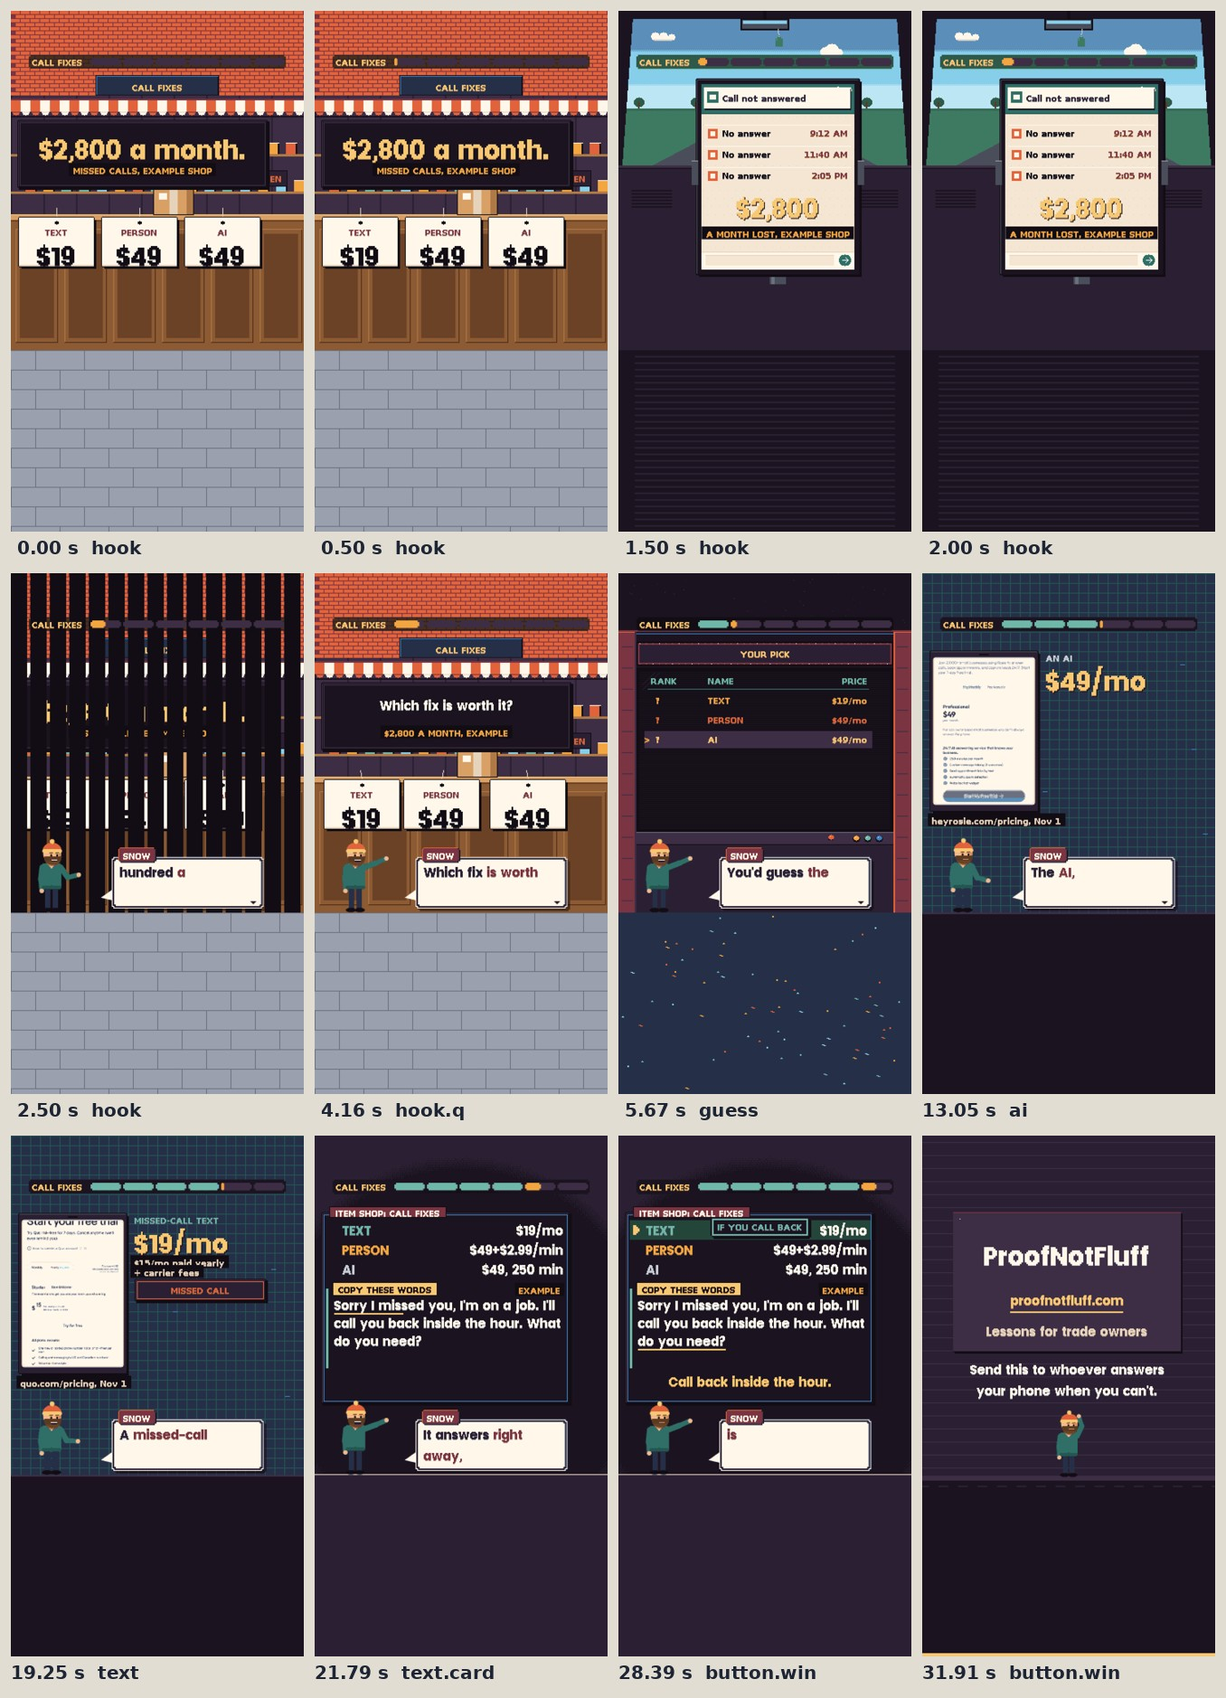
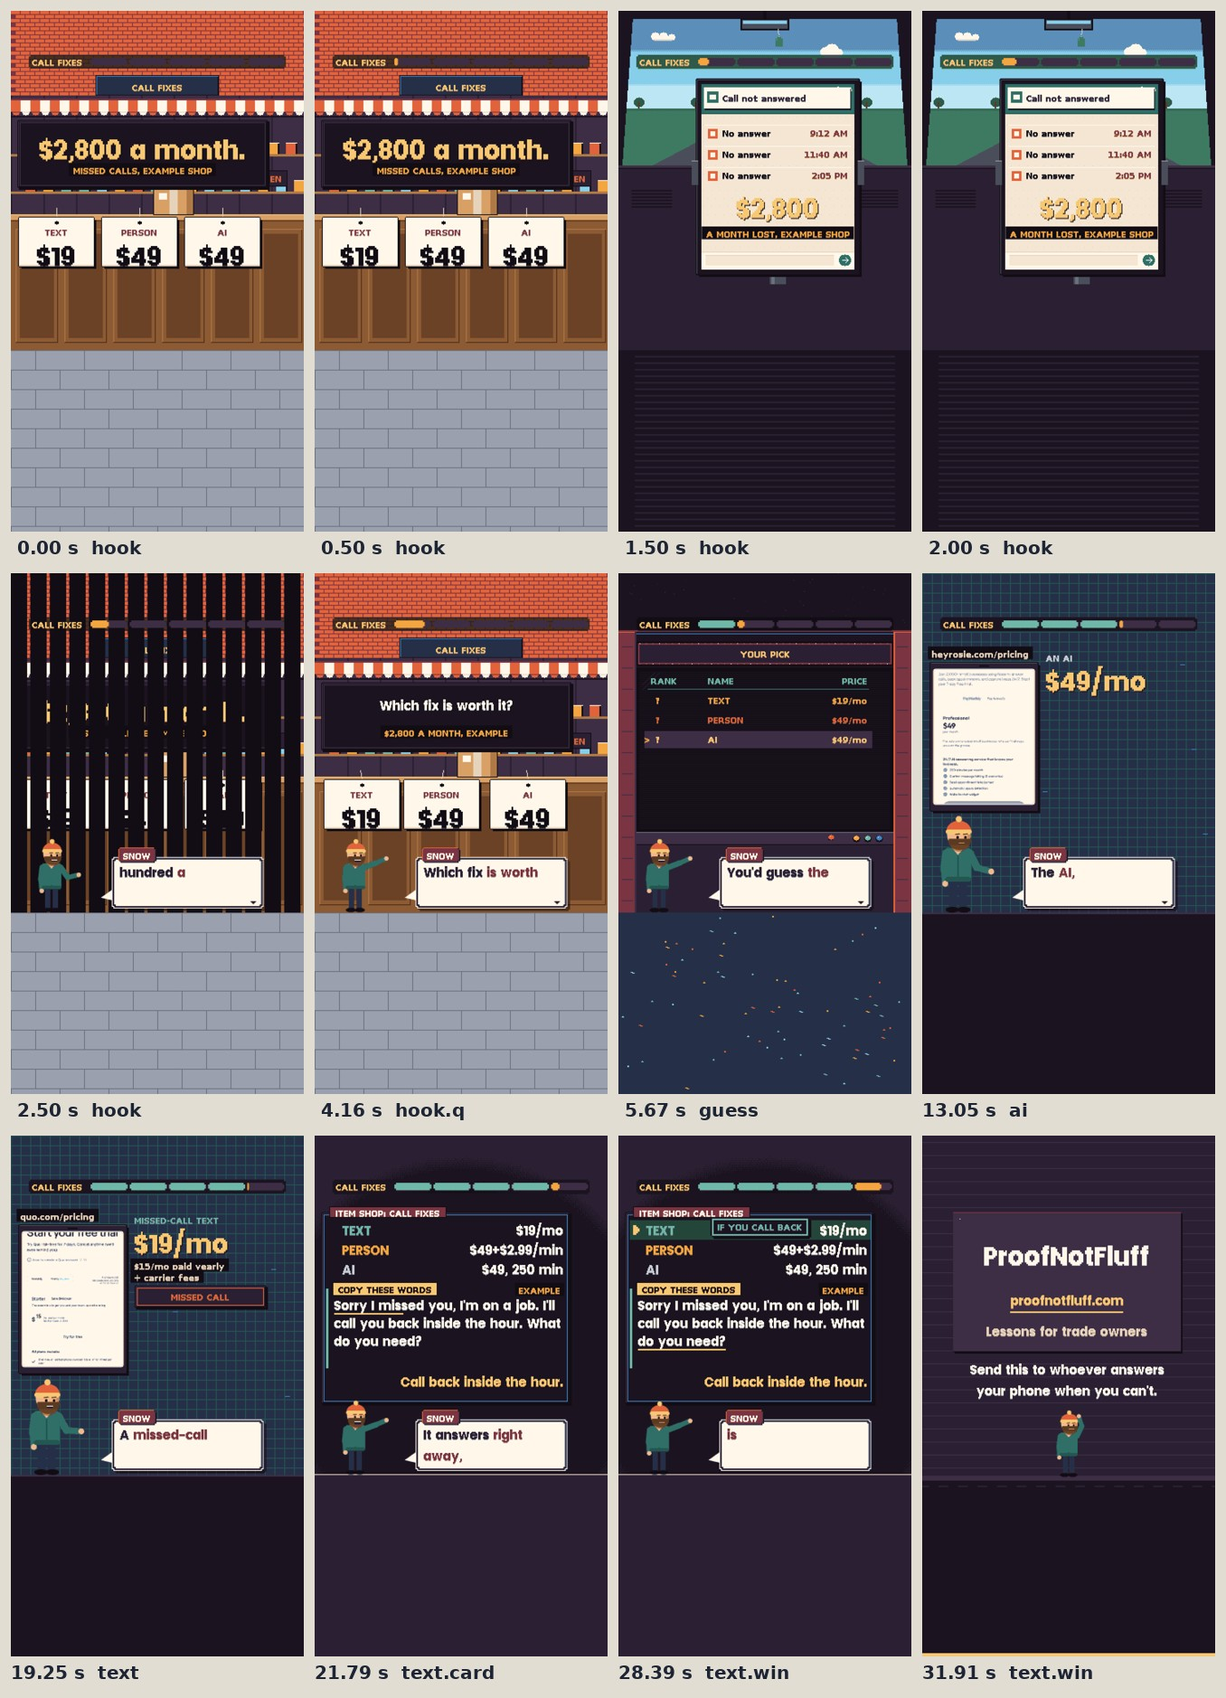
studio: three-fixes r2 build, every gate PASS (facts 14 numbers 0 mismatches, facts-captions, render critic 0 faults, buyer, design 4.86 on the 4.50 bar after two FAILs, golden post as is); learnings
Claude-Session: https://claude.ai/code/session_01XMn4eLZ2Yvg9MwMkfHFw6Y

diff --git a/video/studio/videos/2026-11-15-three-fixes/04_scene/scene.js b/video/studio/videos/2026-11-15-three-fixes/04_scene/scene.js
@@ -50,7 +50,7 @@ const wordT = (k, id, re, dflt = 0) => {
   return w ? w.start : t0 + dflt;
 };
 const bob2 = (T, t0) => (T - t0 < 0.3 ? 0 : [0, 6, 0, -6][Math.floor((T - t0 - 0.3) / 0.15) % 4]);
-const host = (k, pose) => ({hostPose: pose || (k.talking() ? 'talk' : 'stand'), hostScale: 0.55, hostX: 150});
+const host = (k, pose, big) => ({hostPose: pose || (k.talking() ? 'talk' : 'stand'), hostScale: big ? 0.72 : 0.55, hostX: big ? 132 : 150});
 const plate = (d, x, y, w, h) => d.win(x, y, w, h, {base: '#1B1420', hi: '#3D2E45', lo: INK, rule: '#3D2E45'});
 /* a rubber stamp in a dark box with a coloured rim, landed with the kit's hit-stop */
 const stampBox = (k, s, cx, y, t0, o = {}) => {
@@ -106,9 +106,9 @@ const desk = (k) => {
 /* the page shot in a phone frame (left) with its address under it */
 const pagePhone = (k, d, name, addr, scroll, t0) => {
   const sl = d.ease(t0, 6, -40);
-  const s = bigPhone(k, d, 10 + sl, 96, 132, 196, {screen: '#FFFFFF'});
+  const s = bigPhone(k, d, 10 + sl, 110, 132, 182, {screen: '#FFFFFF'});
   k.page(s.x * 3, s.y * 3, s.w * 3, s.h * 3, name, {scroll});
-  tag(k, addr, (12 + sl) * 3, 298 * 3, {color: SAND});
+  tag(k, addr, (12 + sl) * 3, 93 * 3, {color: SAND});
   return s;
 };
 /* the right-hand column (x 150 to 314): each line slides in on its own word */
@@ -153,8 +153,8 @@ window.SCENE = {
   host_name: 'Snow',
   hud: 'CALL FIXES',
   sendLine: "Send this to whoever answers your phone when you can't.",
-  transitions: {guess: 'dissolve', person: 'levelselect', ai: 'dissolve', text: 'dissolve'},
-  trauma: {'button.win': 0.5},
+  transitions: {guess: 'dissolve', person: 'levelselect', ai: 'dissolve', text: 'dissolve'},   /* the card stays from text.card to the end: one section, no wipe */
+  trauma: {'text.win': 0.5},
   sections: {
     /* ---- hook: three shots. Cover (frame 0, no host): the counter (the metaphor), three tags, the plate $2,800 a  */
     /* month (EXAMPLE). By 0.8 s blinds open on the dash phone: missed-call rows drop in, $2,800 slams in (EXAMPLE).   */
@@ -197,6 +197,7 @@ window.SCENE = {
       const n = k.data.numbers, t0 = k.S('guess'), tA = wordT(k, 'guess', /^AI/i, 0.8), tB = wordT(k, 'guess', /^books/i, 1.4);
       mute(k, (x) => String(x) === 'SCORE', () => k.sets.scores({title: 'YOUR PICK', t0: t0 - 0.3, gap: 0.2, count: 0.5, rows: [{name: 'TEXT', value: n.text.value, prefix: '$', suffix: '/mo', rank: '?'}, {name: 'PERSON', value: n.person.value, prefix: '$', suffix: '/mo', rank: '?'}, {name: 'AI', value: n.ai.value, prefix: '$', suffix: '/mo', rank: '?', hi: tA - 0.25 <= T}]}));
       k.text('PRICE', 306 * 3, 126 * 3, {size: 39, color: TEAL, align: 'right'});
+      if (T < tB - 0.25 && Math.floor(T * 2) % 2 === 0) k.text('INSERT COIN', CX, 240 * 3, {size: 66, color: SAND, align: 'center'});
       if (T >= tB - 0.25) k.slam('IT BOOKS?', CX, 236 * 3, tB - 0.25, {size: 132, color: Math.floor((T - tB) * 4) % 2 ? RED : GOLD, align: 'center', from: 0.5, drop: INK, glint: false});
       return host(k, 'point');
     },
@@ -204,9 +205,9 @@ window.SCENE = {
     /* ---- person: PATLive's own page in the phone, its address; "$49/mo" and "+ $2.99/min" land on the words; a     */
     /* meter rolls 0 to 100 minutes and the bill to $348 (EXAMPLE, 100 minutes).                                        */
     person: (k, T) => {
-      const n = k.data.numbers, t0 = k.S('person'), tF = wordT(k, 'person', /^forty/i, 0.6), tP = wordT(k, 'person', /^plus/i, 1.6), tMin = wordT(k, 'person', /^minute/i, 3.2);
+      const n = k.data.numbers, t0 = k.S('person'), tF = wordT(k, 'person', /^forty/i, 0.6), tP = wordT(k, 'person', /^plus/i, 1.6), tMin = wordT(k, 'person', /^ninety/i, 2.8) - 0.2;
       const d = desk(k);
-      pagePhone(k, d, 'patlive', 'patlive.com/pricing, Nov 1', 0, t0);
+      pagePhone(k, d, 'patlive', 'patlive.com/pricing', 0, t0);
       k.text('A PERSON', RX * 3, 98 * 3, {size: 39, color: ORANGE});
       priceLines(k, d, [{s: `${n.person.shown}/mo`, y: 112, at: Math.min(tF, t0 + 0.35), size: 99, c: GOLD}, {s: `+${n.permin.shown}/min`, y: 152, at: tP}]);
       if (T >= tMin - 0.1) {
@@ -216,7 +217,7 @@ window.SCENE = {
         k.text(p >= 1 ? `${n.ptotal.shown}/mo` : `$${bill.toFixed(0)}`, (RX + 78) * 3, 222 * 3, {size: 99, color: p >= 1 ? RED : GOLD, align: 'center'});
         tag(k, 'EXAMPLE USE', (RX + 78) * 3, 280 * 3, {align: 'center', color: ORANGE});
       }
-      return host(k, T >= tP ? 'lean' : null);
+      return host(k, T >= tP ? 'lean' : null, true);
     },
 
     /* ---- ai: Rosie's own page in the phone with its address; "$49/mo" and "250 min" land; on "only" SENDS A LINK   */
@@ -224,7 +225,7 @@ window.SCENE = {
     ai: (k, T) => {
       const n = k.data.numbers, t0 = k.S('ai'), tF = wordT(k, 'ai', /^forty/i, 0.5), tM = wordT(k, 'ai', /^hundred|^two/i, 1.6), tO = wordT(k, 'ai', /^only/i, 3.6);
       const d = desk(k);
-      pagePhone(k, d, 'rosie', 'heyrosie.com/pricing, Nov 1', 230, t0);
+      pagePhone(k, d, 'rosie', 'heyrosie.com/pricing', 230, t0);
       k.text('AN AI', RX * 3, 98 * 3, {size: 39, color: '#C9A7F0'});
       priceLines(k, d, [{s: `${n.ai.shown}/mo`, y: 112, at: Math.min(tF, t0 + 0.35), size: 99, c: GOLD}, {s: `${n.aimin.shown} min`, y: 152, at: tM}]);
       if (T >= tO - 0.25) {
@@ -232,39 +233,35 @@ window.SCENE = {
         tag(k, 'This plan. Booking', (RX + 80) * 3, 236 * 3, {align: 'center'});
         tag(k, `is on its ${n.aibook.shown} plan.`, (RX + 80) * 3, 254 * 3, {align: 'center'});
       }
-      return host(k, T >= tO ? 'shrug' : null);
+      return host(k, T >= tO ? 'shrug' : null, true);
     },
 
     /* ---- text: Quo's own page in the phone (its yearly view) with its address; "$19/mo" lands, "$15 paid yearly"   */
     /* under it; a missed call buzzes and our example auto-reply pops back. On "It answers" the ITEM SHOP card.         */
     text: (k, T) => {
       const n = k.data.numbers, t0 = k.S('text'), tN = wordT(k, 'text', /^nineteen/i, 1.2), tCard = k.S('text.card');
-      if (T >= tCard - 0.25) { shopCard(k, tCard - 0.25); blinds(k, tCard - 0.25); return host(k, 'point'); }
+      if (T >= tCard - 0.25) {
+        const tW = wordT(k, 'text.win', /^worth/i, 0.6), c = shopCard(k, tCard - 0.25, {best: tW - 0.25});
+        if (T >= tCard + 0.35) k.slam('Call back inside the hour.', 918, (c.by + c.bh + 6) * 3, tCard + 0.35, {size: 66, color: GOLD, align: 'right', from: 0.4, drop: INK, glint: false});
+        if (T >= tW - 0.25) stampBox(k, 'IF YOU CALL BACK', 520, (c.Y + 6) * 3, tW - 0.25, {color: TEAL, size: 39});
+        blinds(k, tCard - 0.25);
+        return host(k, T >= tW + 0.8 ? 'wave' : 'point');
+      }
       const d = desk(k), {P} = d;
-      pagePhone(k, d, 'quo', 'quo.com/pricing, Nov 1', 190, t0);
+      pagePhone(k, d, 'quo', 'quo.com/pricing', 190, t0);
       k.text('MISSED-CALL TEXT', RX * 3, 98 * 3, {size: 39, color: TEAL});
       priceLines(k, d, [{s: `${n.text.shown}/mo`, y: 112, at: Math.min(tN, t0 + 0.35), size: 99, c: GOLD}]);
-      if (T >= t0 + 0.2) { tag(k, `${n.textyr.shown}/mo paid yearly`, RX * 3, 150 * 3, {color: SAND}); tag(k, '+ carrier fees', RX * 3, 162 * 3, {color: SAND}); }
+      if (T >= t0 + 0.2) { tag(k, `${n.textyr.shown}/mo paid yearly`, RX * 3, 154 * 3, {color: SAND}); tag(k, '+ carrier fees', RX * 3, 168 * 3, {color: SAND}); }
       const tBz = t0 + 0.3;
       if (T >= tBz) {
         const sh = T < tBz + 0.4 ? (Math.floor(T * 30) % 2 ? 2 : -2) : 0;
-        d.win(RX - 2 + sh, 176, 162, 28, {base: '#2B2033', hi: '#3D2E45', lo: INK, rule: RED});
-        k.text('MISSED CALL', (RX + 79 + sh) * 3, 184 * 3, {size: 39, color: RED, align: 'center'});
-        if (T >= tBz + 0.5) { const sl = d.ease(tBz + 0.5, 5, 20); P(RX, 208 + sl, 160, 56, CREAM); P(RX, 208 + sl, 160, 1, '#FFFFFF');
-          ['Sorry I missed you,', "I'm on a job..."].forEach((l, i) => k.text(l, (RX + 6) * 3, (214 + sl + i * 18) * 3, {size: 39, color: INK}));
-          tag(k, 'AUTO-REPLY, EXAMPLE', (RX + 80) * 3, 276 * 3, {align: 'center', color: ORANGE}); }
+        d.win(RX - 2 + sh, 184, 162, 28, {base: '#2B2033', hi: '#3D2E45', lo: INK, rule: RED});
+        k.text('MISSED CALL', (RX + 79 + sh) * 3, 192 * 3, {size: 39, color: RED, align: 'center'});
+        if (T >= tBz + 0.5) { const sl = d.ease(tBz + 0.5, 5, 20); P(RX, 218 + sl, 160, 50, CREAM); P(RX, 218 + sl, 160, 1, '#FFFFFF');
+          ['Sorry I missed you,', "I'm on a job..."].forEach((l, i) => k.text(l, (RX + 6) * 3, (223 + sl + i * 18) * 3, {size: 39, color: INK}));
+          tag(k, 'AUTO-REPLY, EXAMPLE', (RX + 80) * 3, 276 * 3 + 6, {align: 'center', color: ORANGE}); }
       }
-      return host(k, T >= tN ? 'lean' : null);
-    },
-
-    /* ---- button: the card stays; "Call back inside the hour." lands under the box; IF YOU CALL BACK stamps on the TEXT row (the rule, not a pick)   */
-    /* on "worth" (a game moment).                                                                   */
-    button: (k, T) => {
-      const tCard = k.S('text.card'), tW = wordT(k, 'button', /^worth/i, 3.6), tH = wordT(k, 'button', /^hour/i, 1.2);
-      const c = shopCard(k, tCard - 0.25, {best: tW - 0.25});
-      if (T >= tH - 0.25) k.slam('Call back inside the hour.', CX, (c.by + c.bh + 6) * 3, tH - 0.25, {size: 66, color: GOLD, align: 'center', from: 0.4, drop: INK, glint: false});
-      if (T >= tW - 0.25) stampBox(k, 'IF YOU CALL BACK', 520, (c.Y + 6) * 3, tW - 0.25, {color: TEAL, size: 39});
-      return host(k, T >= tW + 0.8 ? 'wave' : 'point');
+      return host(k, T >= tN ? 'lean' : null, true);
     },
   },
 };

diff --git a/video/studio/videos/2026-11-15-three-fixes/03_cues/cues.js b/video/studio/videos/2026-11-15-three-fixes/03_cues/cues.js
@@ -1,1 +1,1 @@
-window.CUES = {"schema": "pnf.studio.cues.v1", "source": "whisper medium.en int8, re-spelled from script.md", "music": {"id": "rooms", "level": 0.16, "tune": "sunny"}, "duration": 32.214, "cues": [{"id": "hook", "level": 0, "quote": "Missed calls cost this shop", "sfx": "pop", "shift": 0.0, "pin": null, "text": "Three shots. Cover, frame one, no host: the supply-house counter (our shop \"CALL FIXES\"), three price tags on the counter, TEXT $19, PERSON $49, AI $49 (the metaphor: fixes priced like parts); the plate \"$2,800 a month.\" with EXAMPLE. By 0.8 s blinds open on the dash phone: missed-call rows drop in and $2,800 slams in (A MONTH LOST, EXAMPLE SHOP). Before 3 s blinds back to the counter, Snow behind it.", "t": 0.0, "word": 0, "end": 5.074}, {"id": "hook.q", "level": 1, "quote": "Which fix is worth", "sfx": "tick", "shift": 0.0, "pin": null, "text": "The plate turns to \"Which fix is worth it?\"; the three tags swing once.", "t": 3.56, "word": 9, "end": 5.074}, {"id": "guess", "level": 0, "quote": "You'd guess the AI.", "sfx": "whoosh", "shift": 0.0, "pin": null, "text": "The arcade table YOUR PICK: TEXT, PERSON, AI with their prices; the AI row lights on \"AI\"; IT BOOKS? slams in big and blinks on \"books\".", "t": 5.074, "word": 14, "end": 8.085}, {"id": "person", "level": 0, "quote": "A person, forty-nine a", "sfx": "whoosh", "shift": 0.0, "pin": null, "text": "A phone frame with PATLive's own pricing page (shot Nov 1) and its address; the PERSON tag lands beside it: \"$49/mo + $2.99 a minute\". A meter rolls minutes 0 to 100 and the bill to $348 (EXAMPLE: 100 minutes).", "t": 8.085, "word": 20, "end": 12.454}, {"id": "ai", "level": 0, "quote": "The AI, forty-nine a", "sfx": "whoosh", "shift": 0.0, "pin": null, "text": "Rosie's own pricing page (shot Nov 1) in the phone frame with its address; \"$49/mo, 250 minutes\"; on \"only\" a stamp \"SENDS A LINK\" and a small tag \"this plan; booking is on its $149 plan\".", "t": 12.454, "word": 30, "end": 18.652}, {"id": "text", "level": 0, "quote": "A missed-call text is", "sfx": "whoosh", "shift": 0.0, "pin": null, "text": "Quo's own pricing page (shot Nov 1) in the phone frame with its address; \"$19/mo\" lands, with \"$15 paid yearly\" under it with + carrier fees. A missed call buzzes and our example text pops back at once.", "t": 18.652, "word": 47, "end": 24.614}, {"id": "text.card", "level": 1, "quote": "It answers right away,", "sfx": "chime", "shift": 0.0, "pin": null, "text": "The save card (C3, the native move): an RPG ITEM SHOP menu: TEXT $19, PERSON $49 + $2.99/min, AI $49 for 250 min; under it a COPY THIS TEXT box with our example words, EXAMPLE. The cursor sits on TEXT and blinks; held through the button.", "t": 21.192, "word": 54, "end": 24.614}, {"id": "button", "level": 0, "quote": "Call missed calls back", "sfx": "whoosh", "shift": 0.0, "pin": null, "text": "The card stays; \"Call back inside the hour.\" lands under it.", "t": 24.614, "word": 64, "end": 32.214}, {"id": "button.win", "level": 1, "quote": "text is worth it", "sfx": "sting", "shift": 0.0, "pin": null, "text": "IF YOU CALL BACK stamps on the TEXT row with a kick (the rule, not a pick). Then the end card with the send line.", "t": 27.794, "word": 75, "end": 32.214}]};
+window.CUES = {"schema": "pnf.studio.cues.v1", "source": "whisper medium.en int8, re-spelled from script.md", "music": {"id": "rooms", "level": 0.16, "tune": "sunny"}, "duration": 32.214, "cues": [{"id": "hook", "level": 0, "quote": "Missed calls cost this shop", "sfx": "pop", "shift": 0.0, "pin": null, "text": "Three shots. Cover, frame one, no host: the supply-house counter (our shop \"CALL FIXES\"), three price tags on the counter, TEXT $19, PERSON $49, AI $49 (the metaphor: fixes priced like parts); the plate \"$2,800 a month.\" with EXAMPLE. By 0.8 s blinds open on the dash phone: missed-call rows drop in and $2,800 slams in (A MONTH LOST, EXAMPLE SHOP). Before 3 s blinds back to the counter, Snow behind it.", "t": 0.0, "word": 0, "end": 5.074}, {"id": "hook.q", "level": 1, "quote": "Which fix is worth", "sfx": "tick", "shift": 0.0, "pin": null, "text": "The plate turns to \"Which fix is worth it?\"; the three tags swing once.", "t": 3.56, "word": 9, "end": 5.074}, {"id": "guess", "level": 0, "quote": "You'd guess the AI.", "sfx": "whoosh", "shift": 0.0, "pin": null, "text": "The arcade table YOUR PICK: TEXT, PERSON, AI with their prices; the AI row lights on \"AI\"; IT BOOKS? slams in big and blinks on \"books\".", "t": 5.074, "word": 14, "end": 8.085}, {"id": "person", "level": 0, "quote": "A person, forty-nine a", "sfx": "whoosh", "shift": 0.0, "pin": null, "text": "A phone frame with PATLive's own pricing page (shot Nov 1) and its address; the PERSON tag lands beside it: \"$49/mo + $2.99 a minute\". A meter rolls minutes 0 to 100 and the bill to $348 (EXAMPLE: 100 minutes).", "t": 8.085, "word": 20, "end": 12.454}, {"id": "ai", "level": 0, "quote": "The AI, forty-nine a", "sfx": "whoosh", "shift": 0.0, "pin": null, "text": "Rosie's own pricing page (shot Nov 1) in the phone frame with its address; \"$49/mo, 250 minutes\"; on \"only\" a stamp \"SENDS A LINK\" and a small tag \"this plan; booking is on its $149 plan\".", "t": 12.454, "word": 30, "end": 18.652}, {"id": "text", "level": 0, "quote": "A missed-call text is", "sfx": "whoosh", "shift": 0.0, "pin": null, "text": "Quo's own pricing page (shot Nov 1) in the phone frame with its address; \"$19/mo\" lands, with \"$15 paid yearly\" under it with + carrier fees. A missed call buzzes and our example text pops back at once.", "t": 18.652, "word": 47, "end": 32.214}, {"id": "text.card", "level": 1, "quote": "It answers right away,", "sfx": "chime", "shift": 0.0, "pin": null, "text": "The save card (C3, the native move): an RPG ITEM SHOP menu: TEXT $19, PERSON $49 + $2.99/min, AI $49 for 250 min; under it a COPY THIS TEXT box with our example words, EXAMPLE. The cursor sits on TEXT and blinks; held through the button.", "t": 21.192, "word": 54, "end": 24.614}, {"id": "text.rule", "level": 1, "quote": "Call missed calls back", "sfx": "whoosh", "shift": 0.0, "pin": null, "text": "The card stays; \"Call back inside the hour.\" lands under it.", "t": 24.614, "word": 64, "end": 27.794}, {"id": "text.win", "level": 1, "quote": "text is worth it", "sfx": "sting", "shift": 0.0, "pin": null, "text": "IF YOU CALL BACK stamps on the TEXT row with a kick (the rule, not a pick). Then the end card with the send line.", "t": 27.794, "word": 75, "end": 32.214}]};

diff --git a/video/studio/LEARNINGS.md b/video/studio/LEARNINGS.md
@@ -119,3 +119,7 @@ The studio learns in three loops (Todd, Oct 28, 2026, 3:43 pm: "make this video 
 - 2026-11-01 morning: TikTok Studio caption, clearing the prefilled file name with execCommand selectAll/delete crashed the upload page (Something went wrong); a real click, Ctrl+A, Backspace, then one synthetic paste works.
 - 2026-11-01 morning: Facebook Page reels tab Create reel button did nothing; facebook.com/reels/create/ works (acting as the Page), and the caption box is on the Edit step, before Next.
 - Nov 1 morning make (cloud), 2026-11-14-ai-night-quote, the first AI lane lesson (fix-this): a real Gemini run through the studio-ai-demo workflow (gemini-3.8-flash timed out twice and hit a 503, so the job asked for gemini-3.5-flash and the API answered as gemini-3.6-flash, 6.6 s). The facts gate caught that the free plan gives Flash-Lite: the card says (API) and every caption says the free app's reply will read differently. The first voice ran 43 s against fix-this's 42 s cap: cut the spoken prompt summary (100 to 93 words) and joined fragments with commas (pace notes stay, once rule). The spoken hook ended at 4.1 s: one 9-word sentence with no pause ("This eleven pm quote reply took under seven seconds") ended at 3.48 s. "It asked two" was heard as "asks" on three voicings ("asked two" elides the t): "It wrote two" cleared the flag. The pixel font has no curly apostrophe (run.json's I'd drew as I?d): draw the same word with a straight one (glyphs()). Design failed twice (4.00, 4.43): the ITEM GET save card and the title-banner cover repeated the lesson before (freshness cap); a typed COPY THIS PROMPT terminal, a wide night window cover, a 198 px hero number on the gauge and blinds between rooms passed at 4.71. Lint `variety` needs 3 set pieces new against the last two lessons: inventory was count-before-ai's, versus was free. Kimi was skipped for facts and facts-captions this run (time; fresh opus agents ran them).
+- 2026-11-01 (lunch run, cloud), 2026-11-15-three-fixes: the script buyer gate failed twice before voice (C1 stake missing from a price-only hook; S1 and C3 missing), then passed; the script facts gate caught a mixed billing basis ($15 yearly against $49 monthly) and "so they know you saw it" (an auto-reply is sent before the owner sees anything). Gating the script before voice cost 0 credits for those fixes (242 credits for the lesson, one re-roll included).
+- 2026-11-01, three-fixes: two-short-sentence takes ("You'd guess the AI. It books.") read 134 wpm on file however they are re-rolled (the pause between sentences); write such a take as one sentence next time.
+- 2026-11-01, three-fixes: SCENE.transitions has no "none"; an unknown style draws an iris wipe. When a card must stay across a cue, make the later beat a sub-cue of the same section (text.rule, text.win), not a new section.
+- 2026-11-01, three-fixes: the new lint accents ERROR (IMPROVE 00a-3) caught "Missed call" rows landing 1.0 s after "missed"; a label that repeats a spoken word must land before it or use other words.

diff --git a/video/studio/videos/2026-11-15-three-fixes/01_voice/brief.md b/video/studio/videos/2026-11-15-three-fixes/01_voice/brief.md
@@ -1,8 +1,8 @@
 # Brief: Three fixes for missed calls, priced (count-before-ai part 2 of 2; quick-math)
 
 IDEAS.md "Owed first" 1: the side-by-side count-before-ai (posted Oct 31, 7:19 pm) promised. Planned Nov 1, 2026 in the
-scheduled lunch run (cloud). It must stand alone: "Part 2 of 2" is a small tag on screen and a caption line only (part 1
-promised it); the voice never says it.
+scheduled lunch run (cloud). It must stand alone: "Part 2 of 2" is a caption line only (part 1 promised it); the voice and
+the screen never say it.
 
 - **Test:** length: the shortest lesson yet, quick-math at about 30 s with the end card (diagnosis rule 2, the middle,
   fired on 3 lessons in a row at 73 to 89 s; lsa-missed-calls held 36% at 50 s; the 45 s markup-margin held 56% on TikTok)

diff --git a/video/studio/videos/2026-11-15-three-fixes/03_cues/cues.md b/video/studio/videos/2026-11-15-three-fixes/03_cues/cues.md
@@ -21,7 +21,7 @@ Quo's own pricing page (shot Nov 1) in the phone frame with its address; "$19/mo
 ## text.card "It answers right away," [sfx: chime]
 The save card (C3, the native move): an RPG ITEM SHOP menu: TEXT $19, PERSON $49 + $2.99/min, AI $49 for 250 min; under it a COPY THIS TEXT box with our example words, EXAMPLE. The cursor sits on TEXT and blinks; held through the button.
 
-## button "Call missed calls back" [sfx: whoosh]
+## text.rule "Call missed calls back" [sfx: whoosh]
 The card stays; "Call back inside the hour." lands under it.
-## button.win "text is worth it" [sfx: sting]
+## text.win "text is worth it" [sfx: sting]
 IF YOU CALL BACK stamps on the TEXT row with a kick (the rule, not a pick). Then the end card with the send line.
